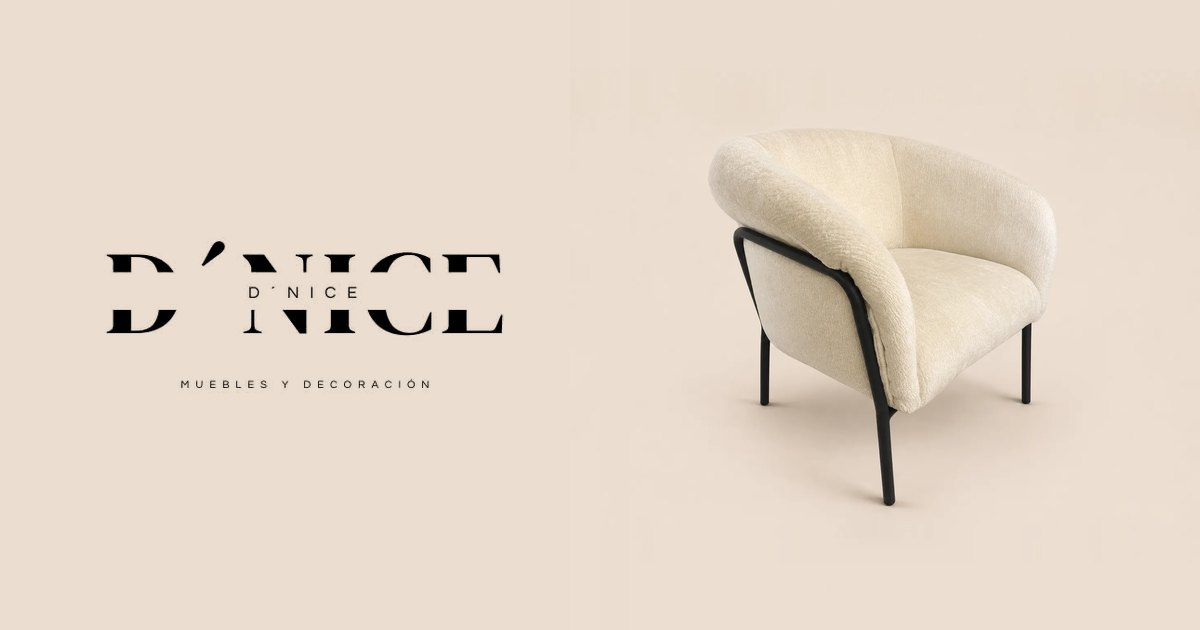
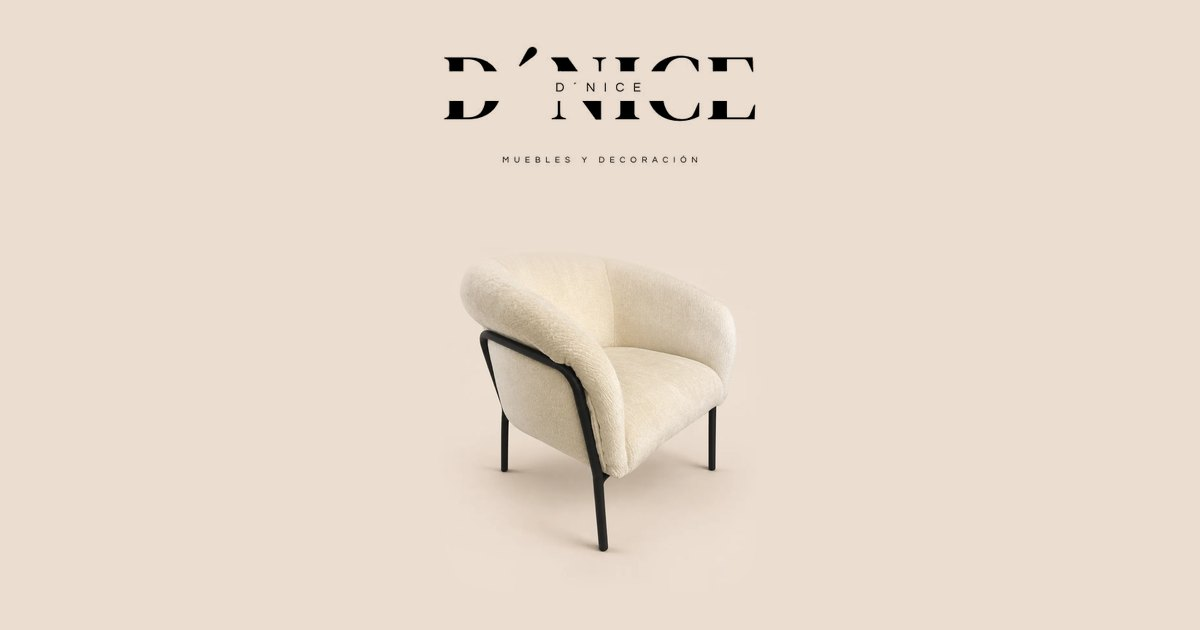
Refresh catalog branding and share image
Update the favicon and brand/share images, refine Spanish catalog metadata to highlight factory-made furniture, and version the Open Graph image URL to refresh social previews.

diff --git a/index.html b/index.html
@@ -4,16 +4,17 @@
   <meta charset="utf-8">
   <meta name="viewport" content="width=device-width, initial-scale=1, viewport-fit=cover">
   <title>D’Nice Muebles y Decoración — Catálogo</title>
-  <meta name="description" content="Catálogo de salas, recámaras, comedores, sillones y decoración de D’Nice Muebles y Decoración en San Luis Potosí.">
+  <meta name="description" content="Catálogo de salas, comedores, sillones y decoración de fábrica de D’Nice Muebles y Decoración en San Luis Potosí.">
   <meta name="theme-color" content="#F4ECE1">
   <meta property="og:type" content="website">
   <meta property="og:title" content="D’Nice Muebles y Decoración">
-  <meta property="og:description" content="Salas, recámaras, comedores, sillones y decoración en San Luis Potosí.">
+  <meta property="og:description" content="Salas, comedores, sillones y decoración de fábrica en San Luis Potosí.">
   <link rel="canonical" href="https://dnice.com.mx/">
   <meta property="og:url" content="https://dnice.com.mx/">
   <meta property="og:locale" content="es_MX">
   <!-- Imagen que muestran WhatsApp y Facebook al compartir el enlace (1200 × 630). Debe ser dirección completa. -->
-  <meta property="og:image" content="https://dnice.com.mx/img/compartir.jpg">
+  <!-- ?v= obliga a WhatsApp y Facebook a bajar la imagen de nuevo; súbelo (v=3, v=4…) cada vez que cambie compartir.jpg -->
+  <meta property="og:image" content="https://dnice.com.mx/img/compartir.jpg?v=2">
   <meta property="og:image:width" content="1200">
   <meta property="og:image:height" content="630">
   <meta property="og:image:alt" content="Logo de D’Nice junto a un sillón ocasional crema">
